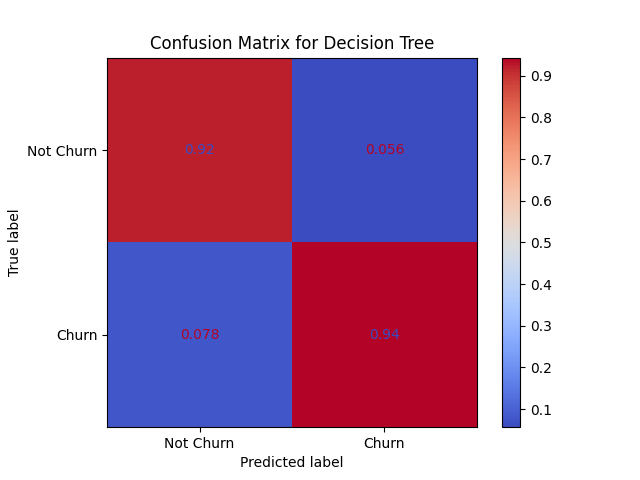
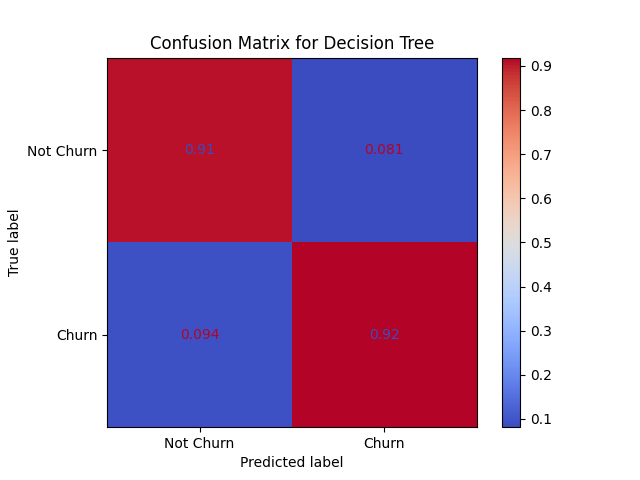
Add Bayesian optimization and random search

diff --git a/decision_tree_hyperparameter_tuning.py b/decision_tree_hyperparameter_tuning.py
@@ -1,0 +1,83 @@
+import pandas as pd
+import numpy as np
+import matplotlib.pyplot as plt
+from sklearn.tree import DecisionTreeClassifier
+from sklearn.metrics import accuracy_score
+from sklearn.model_selection import GridSearchCV, RandomizedSearchCV
+from sklearn.metrics import ConfusionMatrixDisplay
+from pathlib import Path
+import os
+from utils import get_classifier_results
+import optuna
+
+project_dir = os.path.dirname(os.path.abspath(__file__))
+visualization_path = Path(project_dir) / "visualizations" 
+
+## reading processed data
+df_train = pd.read_csv(Path(project_dir) / "dataset/processed_train.csv")
+df_test = pd.read_csv(Path(project_dir) / "dataset/processed_test.csv")
+
+## features and target
+X_train = df_train.drop(columns="churn")
+y_train = df_train["churn"]
+X_test = df_test.drop(columns="churn")
+y_test = df_test["churn"]
+
+dt = DecisionTreeClassifier(random_state=42)
+
+search_params = {
+    "max_depth" : [None, 3, 5, 7, 10],
+    "max_features": ["sqrt", "log2"],
+    "min_samples_split": [2, 5, 10]
+}
+
+gridsearch_dt = GridSearchCV(dt, search_params, scoring="accuracy", cv=5)
+gridsearch_dt.fit(X_train, y_train)
+print(gridsearch_dt.best_params_)
+
+search_params = {
+    "max_depth" : [None, 3, 5, 7, 10],
+    "max_features": ["sqrt", "log2"],
+    "min_samples_split": [2, 5, 10, 15, 20]
+}
+
+randsearch_dt = RandomizedSearchCV(dt, search_params, scoring="accuracy", cv=5)
+randsearch_dt.fit(X_train, y_train)
+print(randsearch_dt.best_params_)
+
+def objective(trial):
+    
+    params = {
+        "max_depth": trial.suggest_int("max_depth", 3, 100),
+        "max_features": trial.suggest_categorical("max_features",["sqrt", "log2"]),
+        "min_samples_split": trial.suggest_int( "min_samples_split", 2, 50)
+    }
+    
+    dt = DecisionTreeClassifier(**params)
+    dt.fit(X_train, y_train)
+    preds = dt.predict(X_test)
+    accuracy = accuracy_score(y_test, preds)
+    return accuracy
+
+study = optuna.create_study(direction="maximize")
+study.optimize(objective, n_trials=50)
+print(study.best_params)
+print(study.best_value)
+bayesoptimizd_dt = DecisionTreeClassifier(**study.best_params)
+bayesoptimizd_dt.fit(X_train, y_train)
+results = {
+    "Grid Search": get_classifier_results(y_test, X_test, gridsearch_dt),
+    "Random Search": get_classifier_results(y_test, X_test, randsearch_dt),
+    "Bayesian Optimization": get_classifier_results(y_test, X_test, bayesoptimizd_dt)
+}
+
+for model, result in results.items():
+    cm_disp = ConfusionMatrixDisplay(result["confusion matrix"], display_labels=["Not Churn","Churn"])
+    print(f"""{model} results:
+          ROC-AUC Score: {result["roc-auc score"]:0.4f}
+          Accuracy: {result["accuracy"]:0.4f}
+          Classification Report: {result["classification_report"]}
+          """)
+    cm_disp.plot(cmap="coolwarm")
+    plt.title(f"Confusion Matrix using {model}")
+    plt.savefig(Path(visualization_path) / f"cm_plot_{model}")

diff --git a/models.py b/models.py
@@ -23,7 +23,7 @@ y_test = df_test["churn"]
 
 logr= LogisticRegression(random_state=42)
 knn = KNeighborsClassifier(n_neighbors=3)
-dt = DecisionTreeClassifier(max_depth=5, random_state=42)
+dt = DecisionTreeClassifier(random_state=42)
 
 logr.fit(X_train, y_train)
 knn.fit(X_train, y_train)
